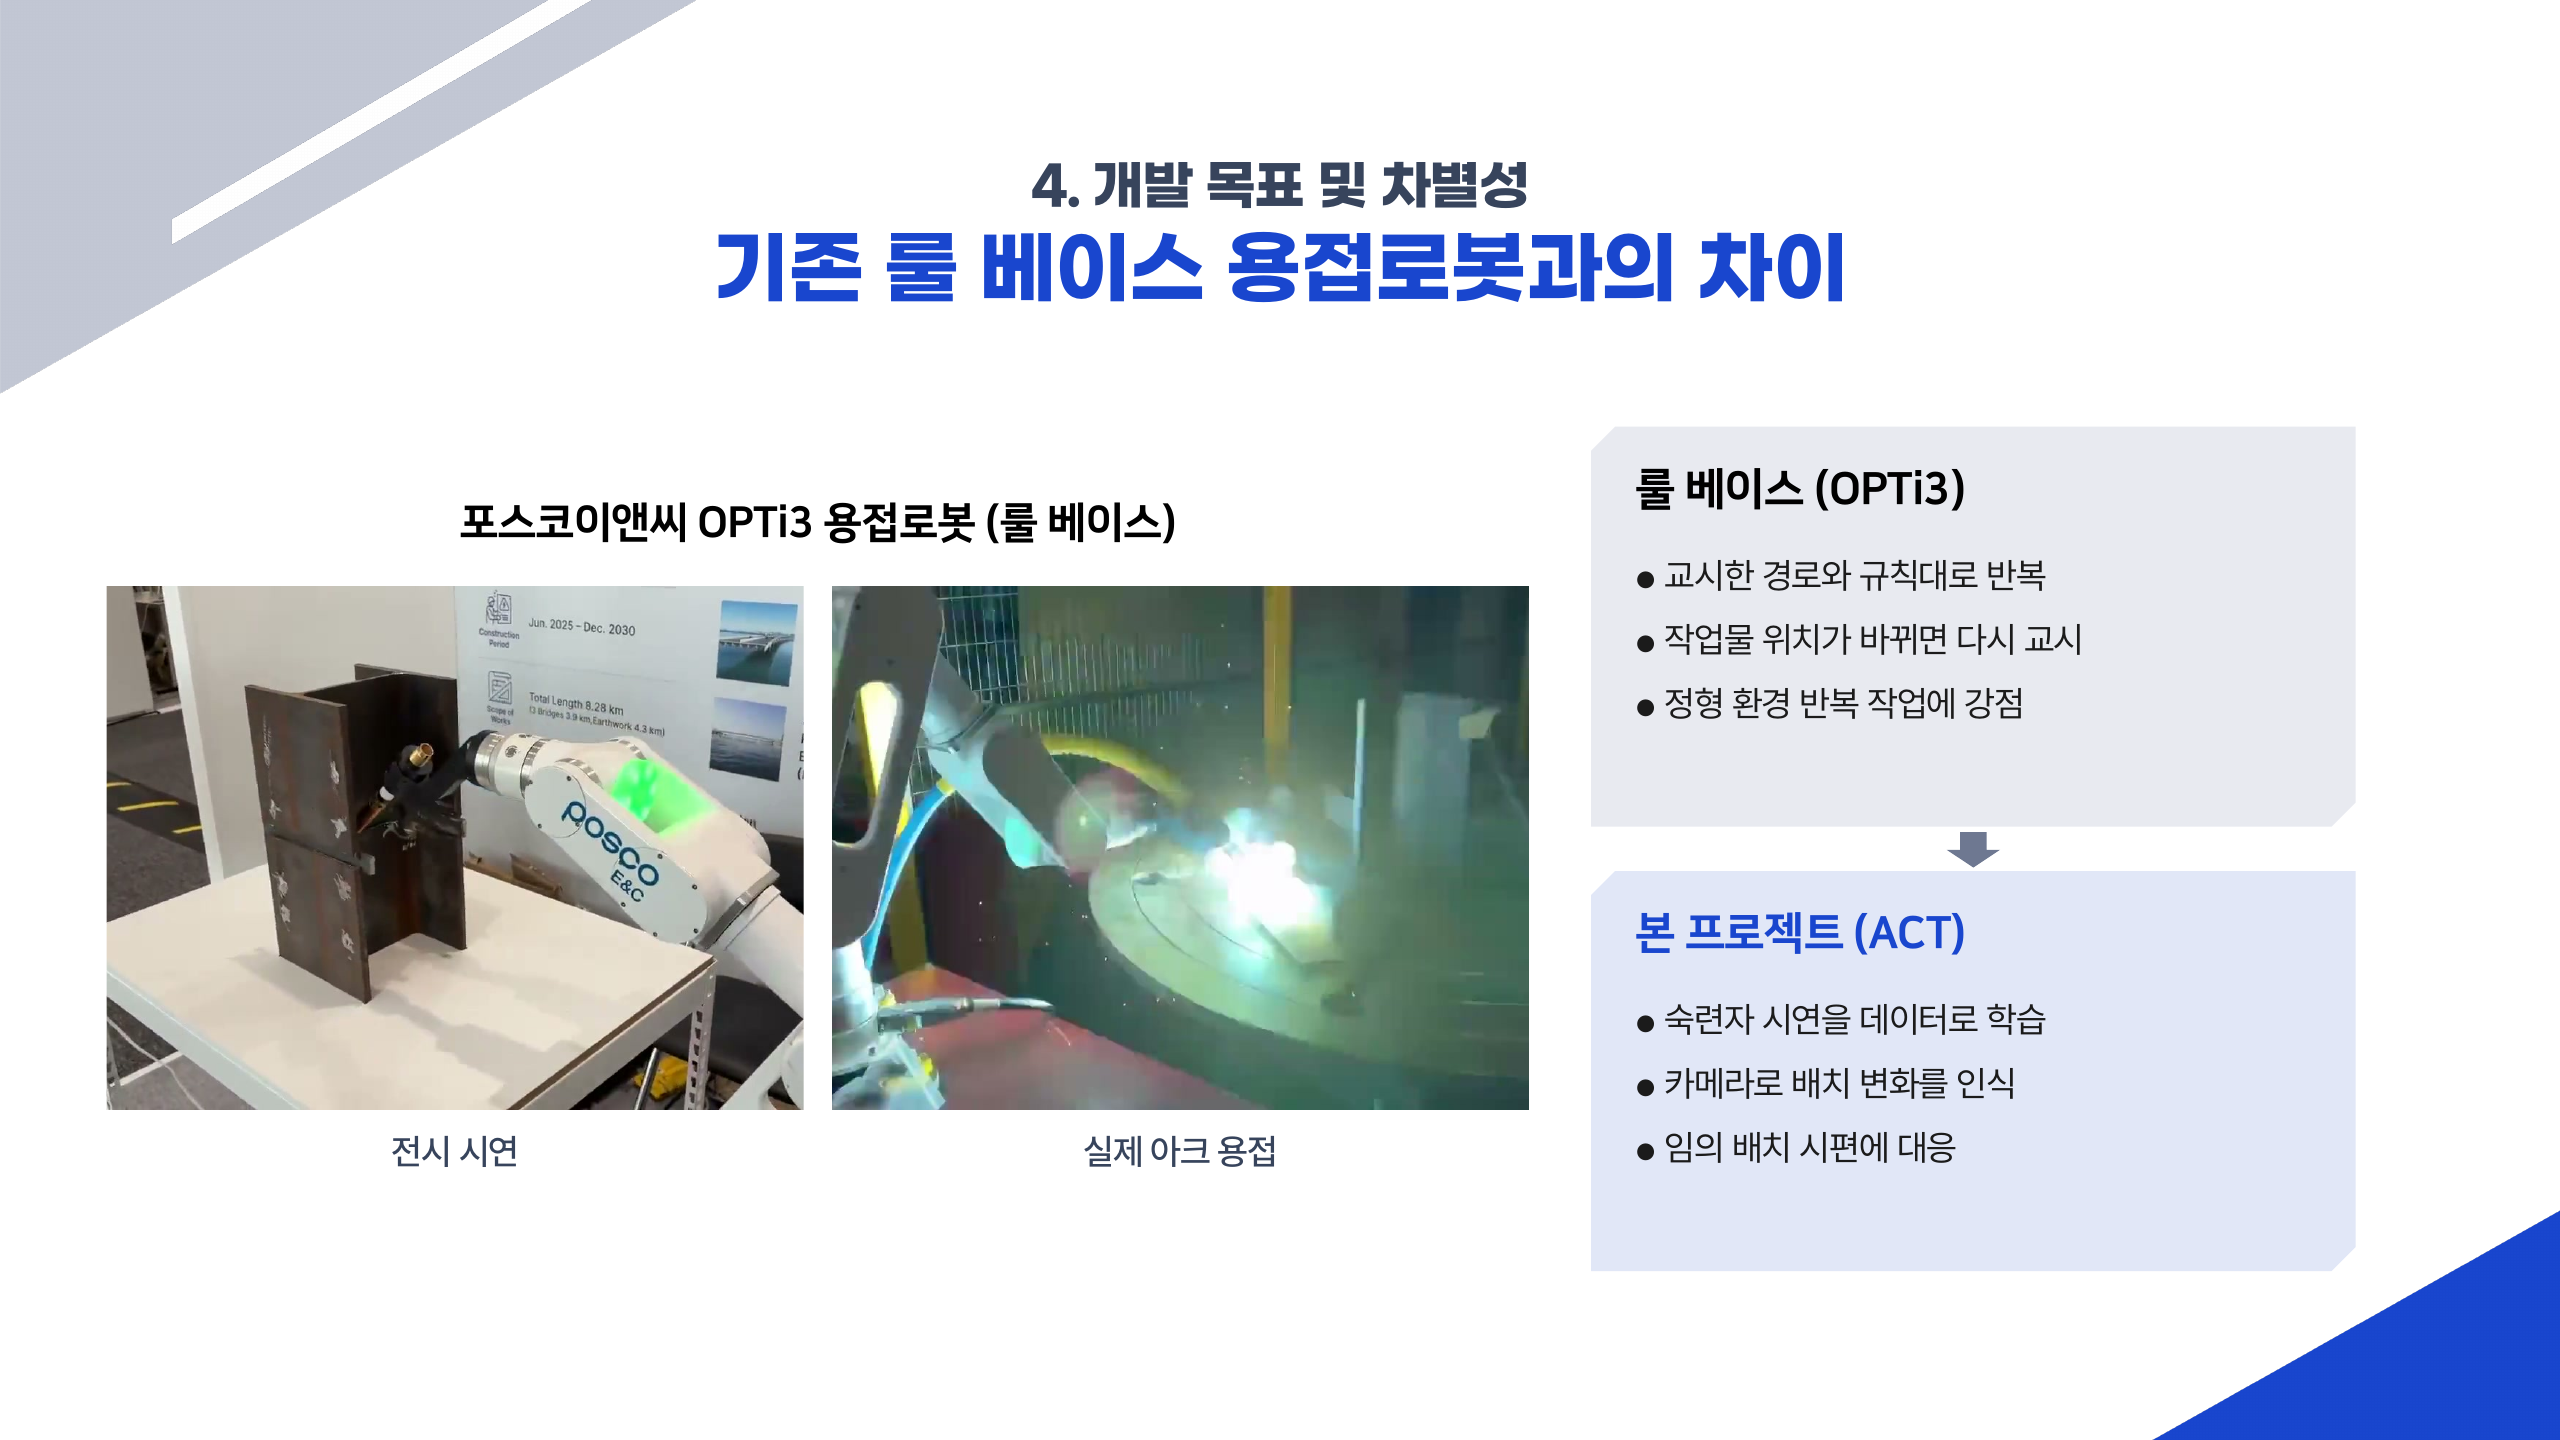
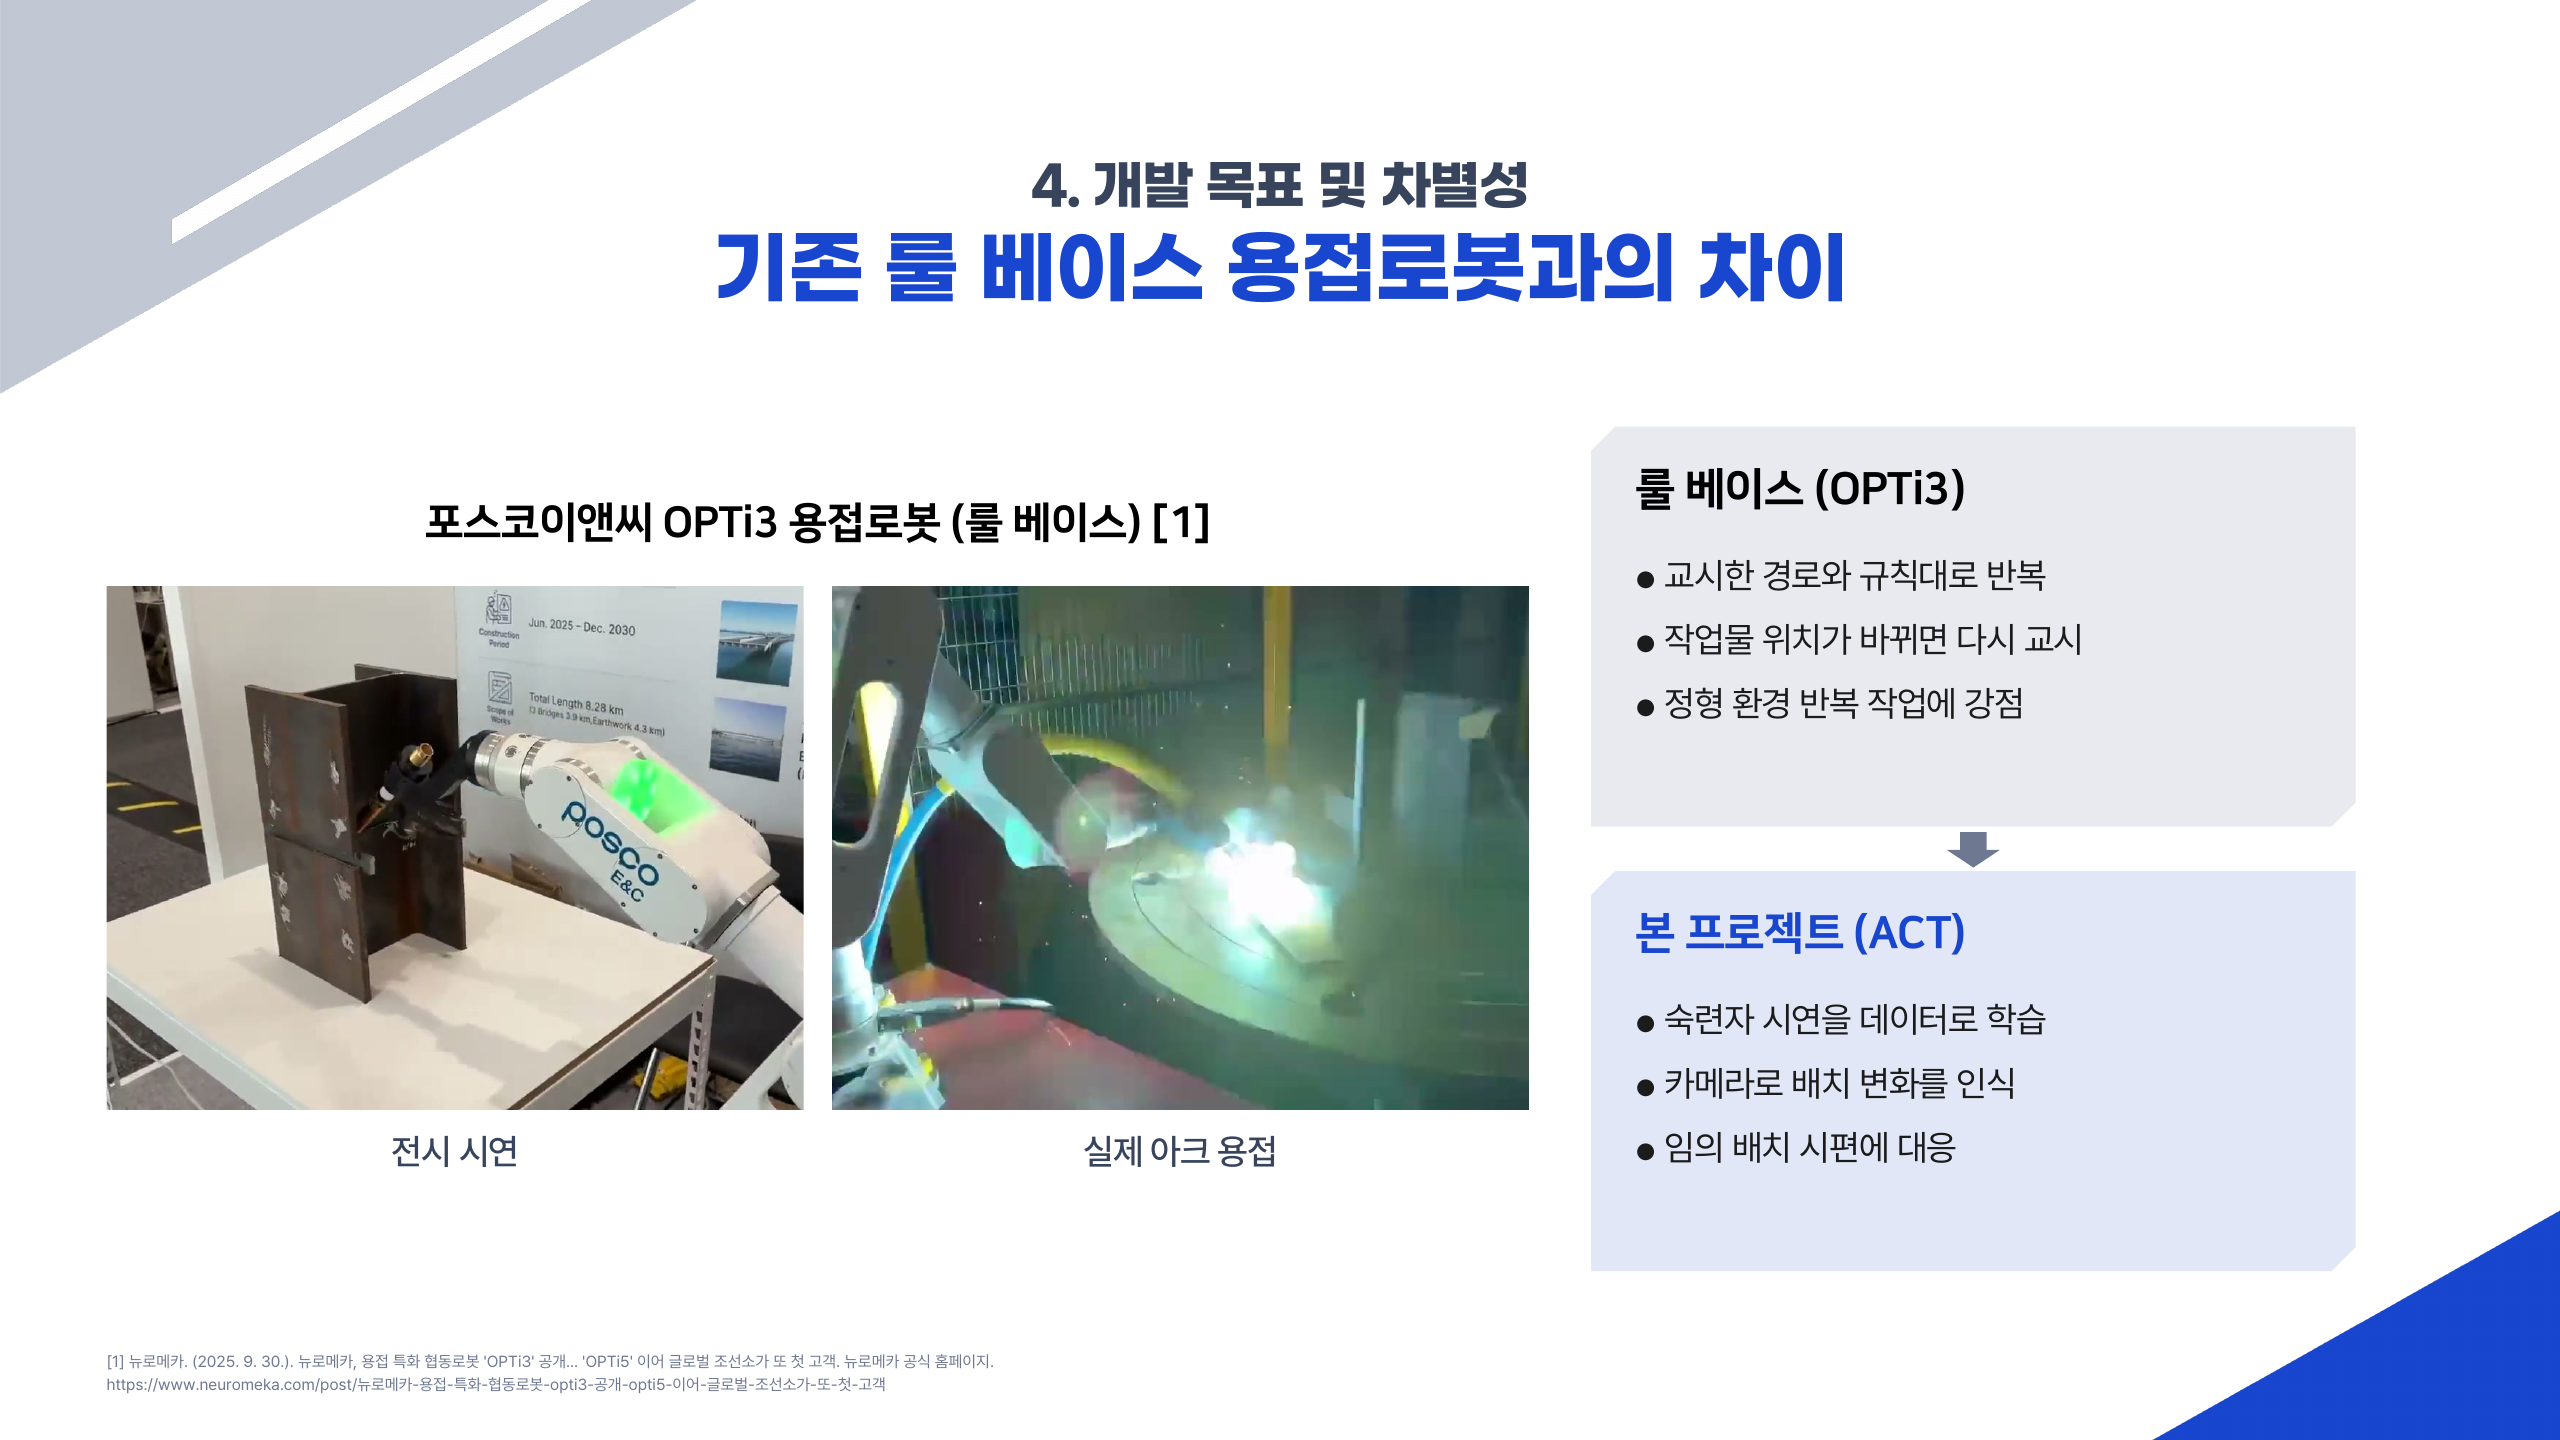
출처 추가(4장 사진 [2][3], 7장 OPTi3 [1], 홈페이지 참고 자료), 4장과 5장 글꼴과 자간 정리

Changed region(s): [[0.0312, 0.9375, 0.375, 0.9688], [0.1562, 0.3438, 0.4688, 0.375]]

diff --git a/project.html b/project.html
@@ -276,6 +276,9 @@
 <section id="refs">
   <h2><small>08</small>참고 자료</h2>
   <ul class="plain">
+    <li>[1] 뉴로메카. (2025. 9. 30.). 뉴로메카, 용접 특화 협동로봇 'OPTi3' 공개... 'OPTi5' 이어 글로벌 조선소가 또 첫 고객. 뉴로메카 공식 홈페이지. <a href="https://www.neuromeka.com/post/뉴로메카-용접-특화-협동로봇-opti3-공개-opti5-이어-글로벌-조선소가-또-첫-고객">neuromeka.com</a></li>
+    <li>[2] Phasmatisnox. (2009). FANUC welding robot reaching. Wikimedia Commons. CC BY 3.0. <a href="https://commons.wikimedia.org/wiki/File:FANUC_welding_robot_reaching.jpg">commons.wikimedia.org</a></li>
+    <li>[3] MassDOT. (2015). Whittier Bridge Steel Erection on Newburyport Approach. Wikimedia Commons. Public Domain. <a href="https://commons.wikimedia.org/wiki/File:Whittier_Bridge_Steel_Erection_on_Newburyport_Approach_(17637660249).jpg">commons.wikimedia.org</a></li>
     <li>ACT 원 논문: Zhao et al., "Learning Fine-Grained Bimanual Manipulation with Low-Cost Hardware", RSS 2023. <a href="https://arxiv.org/abs/2304.13705">arXiv:2304.13705</a></li>
   </ul>
 </section>
